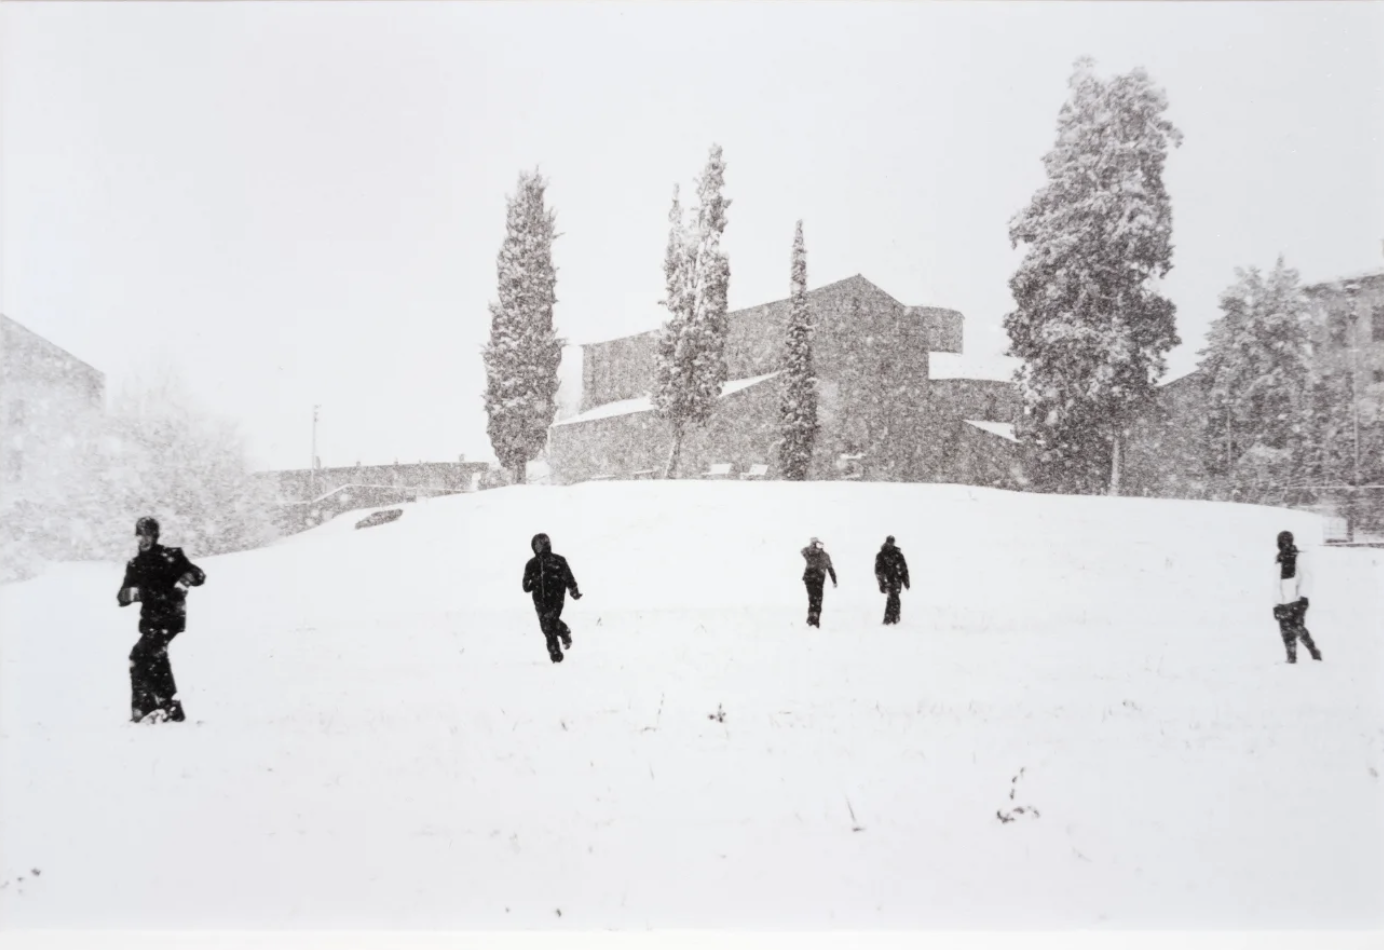
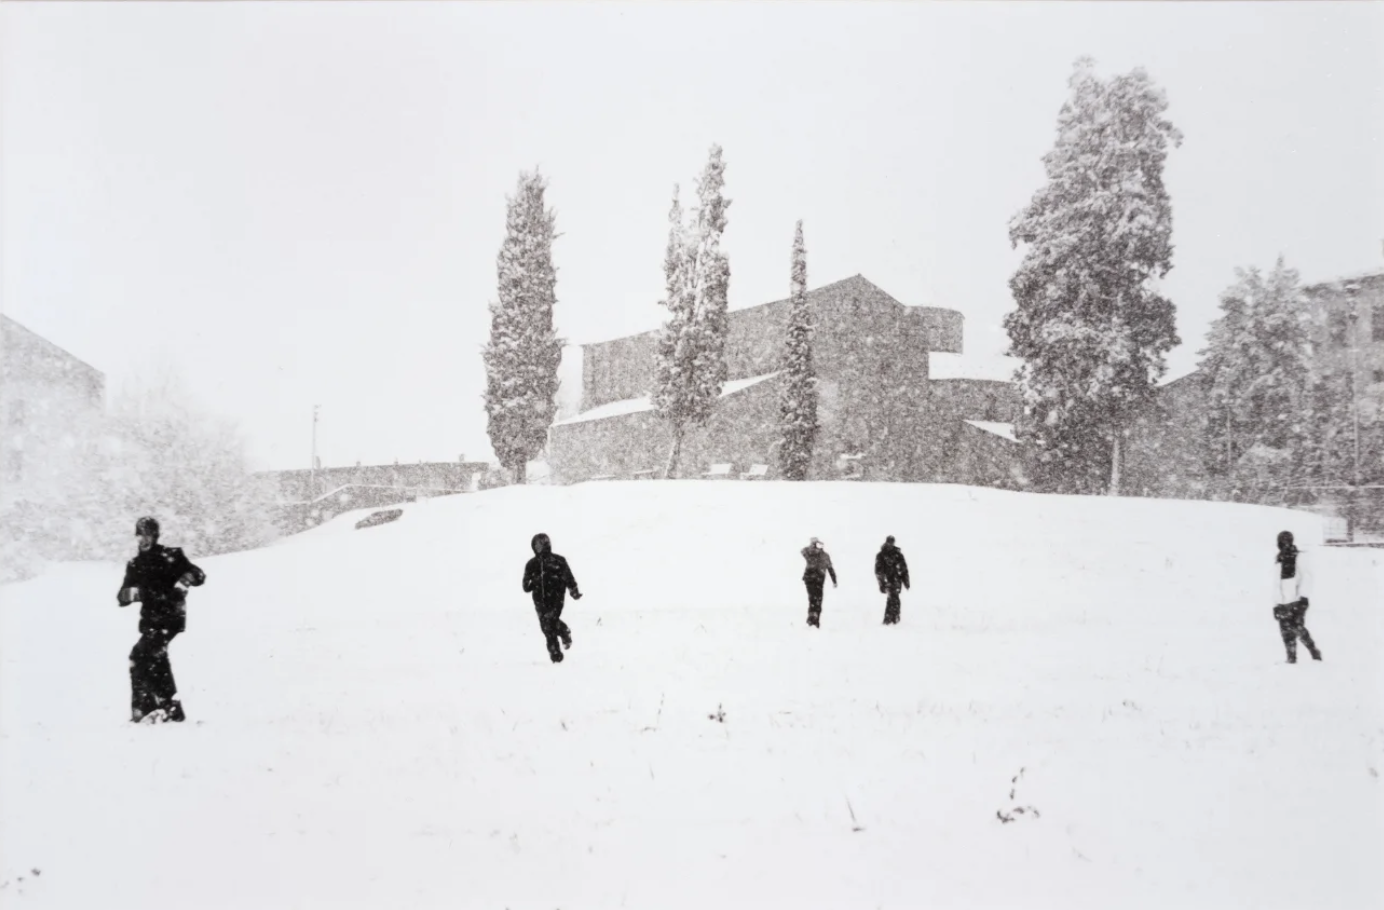
Align available-works captions to a shared row; crop image artifacts
Wrapped each work-card's caption content in a .work-caption div and
switched .works-grid to a subgrid layout (grid-template-rows: auto auto,
work-card spans both rows). Previously the caption text position
depended on each column's image height, so two differently-sized
images left titles/prices/Enquire buttons at mismatched heights —
noticeable on mitsutaka.html and andrea-rosselli.html where the two
work images aren't the same aspect ratio. Applied the same structure to
jesula.html for consistency, even though her two images are near-
identical height today. Mobile breakpoint resets .work-card back to
normal block flow since the grid collapses to one column there.

Also cropped two source images on the Andrea Rosselli page:
- Cantu, 2021.png: removed a flat white band at the bottom of the frame
  (1384x950 -> 1384x910)
- Untitled, 2026.png: removed a 1px dark left-edge line and a 2px dark
  bottom-edge band, both scan artifacts (1554x1550 -> 1553x1548)

diff --git a/mitsutaka.html b/mitsutaka.html
@@ -492,8 +492,20 @@ document.addEventListener('DOMContentLoaded', function() {
     .works-grid {
         display: grid;
         grid-template-columns: 1.5fr 1fr;
+        grid-template-rows: auto auto;
         gap: 3.5rem;
         align-items: start;
+    }
+
+    .work-card {
+        display: grid;
+        grid-template-rows: subgrid;
+        grid-row: span 2;
+    }
+
+    .work-caption {
+        display: flex;
+        flex-direction: column;
     }
 
     .work-card.is-lead figure {
@@ -637,6 +649,11 @@ document.addEventListener('DOMContentLoaded', function() {
         }
         .works-grid {
             grid-template-columns: 1fr;
+            grid-template-rows: none;
+        }
+        .work-card {
+            display: block;
+            grid-row: auto;
         }
         .work-card.is-secondary {
             margin-top: 0;
@@ -1127,22 +1144,26 @@ document.addEventListener('DOMContentLoaded', function() {
                 <figure class="lightbox-trigger" data-full="images/mitsutaka-tsuryu/Mitsutaka Unoccupied Card.jpg" data-title="Unoccupied" tabindex="0" role="button" aria-label="View Unoccupied fullscreen">
                     <img src="images/mitsutaka-tsuryu/Mitsutaka Unoccupied Card.jpg" alt="Unoccupied, by Mitsutaka Tsuryu" loading="lazy" decoding="async">
                 </figure>
-                <h3 class="work-title">Unoccupied</h3>
-                <p class="work-year">&nbsp;</p>
-                <p class="work-meta">60 &times; 100 cm<br>Hahnem&uuml;hle Fine Art Print<br>Edition of 10</p>
-                <p class="work-price">&euro;750</p>
-                <a href="mailto:hello@elsewherecollective.nl?subject=Enquiry%20-%20Unoccupied&body=Hi%2C%20I%27d%20like%20to%20enquire%20about%20%22Unoccupied%22%20by%20Mitsutaka%20Tsuryu.%0A%0APlease%20could%20you%20provide%20more%20details%20about%20availability%2C%20purchase%20and%20timings%3F%0A%0AThanks%2C" class="enquire-btn">Enquire</a>
+                <div class="work-caption">
+                    <h3 class="work-title">Unoccupied</h3>
+                    <p class="work-year">&nbsp;</p>
+                    <p class="work-meta">60 &times; 100 cm<br>Hahnem&uuml;hle Fine Art Print<br>Edition of 10</p>
+                    <p class="work-price">&euro;750</p>
+                    <a href="mailto:hello@elsewherecollective.nl?subject=Enquiry%20-%20Unoccupied&body=Hi%2C%20I%27d%20like%20to%20enquire%20about%20%22Unoccupied%22%20by%20Mitsutaka%20Tsuryu.%0A%0APlease%20could%20you%20provide%20more%20details%20about%20availability%2C%20purchase%20and%20timings%3F%0A%0AThanks%2C" class="enquire-btn">Enquire</a>
+                </div>
             </article>
 
             <article class="work-card is-secondary">
                 <figure class="lightbox-trigger" data-full="images/mitsutaka-tsuryu/Mitsutaka Tsuryu Behind the Veil Card.jpg" data-title="Behind the Veil" tabindex="0" role="button" aria-label="View Behind the Veil fullscreen">
                     <img src="images/mitsutaka-tsuryu/Mitsutaka Tsuryu Behind the Veil Card.jpg" alt="Behind the Veil, by Mitsutaka Tsuryu" loading="lazy" decoding="async">
                 </figure>
-                <h3 class="work-title">Behind the Veil</h3>
-                <p class="work-year">&nbsp;</p>
-                <p class="work-meta">60 &times; 60 cm<br>Hahnem&uuml;hle Fine Art Print<br>Edition of 10</p>
-                <p class="work-price">&euro;550</p>
-                <a href="mailto:hello@elsewherecollective.nl?subject=Enquiry%20-%20Behind%20the%20Veil&body=Hi%2C%20I%27d%20like%20to%20enquire%20about%20%22Behind%20the%20Veil%22%20by%20Mitsutaka%20Tsuryu.%0A%0APlease%20could%20you%20provide%20more%20details%20about%20availability%2C%20purchase%20and%20timings%3F%0A%0AThanks%2C" class="enquire-btn">Enquire</a>
+                <div class="work-caption">
+                    <h3 class="work-title">Behind the Veil</h3>
+                    <p class="work-year">&nbsp;</p>
+                    <p class="work-meta">60 &times; 60 cm<br>Hahnem&uuml;hle Fine Art Print<br>Edition of 10</p>
+                    <p class="work-price">&euro;550</p>
+                    <a href="mailto:hello@elsewherecollective.nl?subject=Enquiry%20-%20Behind%20the%20Veil&body=Hi%2C%20I%27d%20like%20to%20enquire%20about%20%22Behind%20the%20Veil%22%20by%20Mitsutaka%20Tsuryu.%0A%0APlease%20could%20you%20provide%20more%20details%20about%20availability%2C%20purchase%20and%20timings%3F%0A%0AThanks%2C" class="enquire-btn">Enquire</a>
+                </div>
             </article>
         </div>
     </section>

diff --git a/jesula.html b/jesula.html
@@ -521,8 +521,20 @@ document.addEventListener('DOMContentLoaded', function() {
     .works-grid {
         display: grid;
         grid-template-columns: 1fr 1fr;
+        grid-template-rows: auto auto;
         gap: 6rem;
         align-items: start;
+    }
+
+    .work-card {
+        display: grid;
+        grid-template-rows: subgrid;
+        grid-row: span 2;
+    }
+
+    .work-caption {
+        display: flex;
+        flex-direction: column;
     }
 
     .work-card.is-lead figure,
@@ -648,6 +660,11 @@ document.addEventListener('DOMContentLoaded', function() {
         }
         .works-grid {
             grid-template-columns: 1fr;
+            grid-template-rows: none;
+        }
+        .work-card {
+            display: block;
+            grid-row: auto;
         }
         .work-card.is-secondary {
             margin-top: 0;
@@ -1133,22 +1150,26 @@ document.addEventListener('DOMContentLoaded', function() {
                 <figure class="lightbox-trigger" data-full="images/jesula/Jesula Lucent Shadows.jpg" data-title="Lucent Shadows" tabindex="0" role="button" aria-label="View Lucent Shadows fullscreen">
                     <img src="images/jesula/Jesula Lucent Shadows.jpg" alt="Lucent Shadows, by Jésula Toussaint Visser" loading="lazy" decoding="async">
                 </figure>
-                <h3 class="work-title">Lucent Shadows</h3>
-                <p class="work-year">&nbsp;</p>
-                <p class="work-meta">73 &times; 110 cm<br>Fabriano Artistico Watercolour 310 gsm<br>Edition of 5</p>
-                <p class="work-price">&euro;2,000</p>
-                <a href="mailto:hello@elsewherecollective.nl?subject=Enquiry%20-%20Lucent%20Shadows&body=Hi%2C%20I%27d%20like%20to%20enquire%20about%20%22Lucent%20Shadows%22%20by%20J%C3%A9sula%20Toussaint%20Visser.%0A%0APlease%20could%20you%20provide%20more%20details%20about%20availability%2C%20purchase%20and%20timings%3F%0A%0AThanks%2C" class="enquire-btn">Enquire</a>
+                <div class="work-caption">
+                    <h3 class="work-title">Lucent Shadows</h3>
+                    <p class="work-year">&nbsp;</p>
+                    <p class="work-meta">73 &times; 110 cm<br>Fabriano Artistico Watercolour 310 gsm<br>Edition of 5</p>
+                    <p class="work-price">&euro;2,000</p>
+                    <a href="mailto:hello@elsewherecollective.nl?subject=Enquiry%20-%20Lucent%20Shadows&body=Hi%2C%20I%27d%20like%20to%20enquire%20about%20%22Lucent%20Shadows%22%20by%20J%C3%A9sula%20Toussaint%20Visser.%0A%0APlease%20could%20you%20provide%20more%20details%20about%20availability%2C%20purchase%20and%20timings%3F%0A%0AThanks%2C" class="enquire-btn">Enquire</a>
+                </div>
             </article>
 
             <article class="work-card is-secondary">
                 <figure class="lightbox-trigger" data-full="images/jesula/Jesula Drafted.jpg" data-title="Drafted" tabindex="0" role="button" aria-label="View Drafted fullscreen">
                     <img src="images/jesula/Jesula Drafted.jpg" alt="Drafted, by Jésula Toussaint Visser" loading="lazy" decoding="async">
                 </figure>
-                <h3 class="work-title">Drafted</h3>
-                <p class="work-year">&nbsp;</p>
-                <p class="work-meta">73 &times; 110 cm<br>Fabriano Artistico Watercolour 310 gsm<br>Edition of 5</p>
-                <p class="work-price">&euro;1,850</p>
-                <a href="mailto:hello@elsewherecollective.nl?subject=Enquiry%20-%20Drafted&body=Hi%2C%20I%27d%20like%20to%20enquire%20about%20%22Drafted%22%20by%20J%C3%A9sula%20Toussaint%20Visser.%0A%0APlease%20could%20you%20provide%20more%20details%20about%20availability%2C%20purchase%20and%20timings%3F%0A%0AThanks%2C" class="enquire-btn">Enquire</a>
+                <div class="work-caption">
+                    <h3 class="work-title">Drafted</h3>
+                    <p class="work-year">&nbsp;</p>
+                    <p class="work-meta">73 &times; 110 cm<br>Fabriano Artistico Watercolour 310 gsm<br>Edition of 5</p>
+                    <p class="work-price">&euro;1,850</p>
+                    <a href="mailto:hello@elsewherecollective.nl?subject=Enquiry%20-%20Drafted&body=Hi%2C%20I%27d%20like%20to%20enquire%20about%20%22Drafted%22%20by%20J%C3%A9sula%20Toussaint%20Visser.%0A%0APlease%20could%20you%20provide%20more%20details%20about%20availability%2C%20purchase%20and%20timings%3F%0A%0AThanks%2C" class="enquire-btn">Enquire</a>
+                </div>
             </article>
         </div>
     </section>

diff --git a/andrea-rosselli.html b/andrea-rosselli.html
@@ -494,8 +494,20 @@ document.addEventListener('DOMContentLoaded', function() {
     .works-grid {
         display: grid;
         grid-template-columns: 1.5fr 1fr;
+        grid-template-rows: auto auto;
         gap: 3.5rem;
         align-items: start;
+    }
+
+    .work-card {
+        display: grid;
+        grid-template-rows: subgrid;
+        grid-row: span 2;
+    }
+
+    .work-caption {
+        display: flex;
+        flex-direction: column;
     }
 
     .work-card figure {
@@ -629,6 +641,11 @@ document.addEventListener('DOMContentLoaded', function() {
         }
         .works-grid {
             grid-template-columns: 1fr;
+            grid-template-rows: none;
+        }
+        .work-card {
+            display: block;
+            grid-row: auto;
         }
         .work-card.is-secondary {
             margin-top: 0;
@@ -1119,22 +1136,26 @@ document.addEventListener('DOMContentLoaded', function() {
                 <figure class="lightbox-trigger" data-full="images/andrea rosselli/Untitled.png" data-title="Lorem Ipsum" tabindex="0" role="button" aria-label="View Lorem Ipsum fullscreen">
                     <img src="images/andrea rosselli/Untitled.png" alt="Lorem Ipsum, by Andrea Rosselli" loading="lazy" decoding="async">
                 </figure>
-                <h3 class="work-title">Lorem Ipsum</h3>
-                <p class="work-year">&nbsp;</p>
-                <p class="work-meta">Silver gelatin print<br>20 &times; 30 cm<br>Edition of 5</p>
-                <p class="work-price">&euro;450</p>
-                <a href="mailto:hello@elsewherecollective.nl?subject=Enquiry%20-%20Lorem%20Ipsum&body=Hi%2C%20I%27d%20like%20to%20enquire%20about%20%22Lorem%20Ipsum%22%20by%20Andrea%20Rosselli.%0A%0APlease%20could%20you%20provide%20more%20details%20about%20availability%2C%20purchase%20and%20timings%3F%0A%0AThanks%2C" class="enquire-btn">Enquire</a>
+                <div class="work-caption">
+                    <h3 class="work-title">Lorem Ipsum</h3>
+                    <p class="work-year">&nbsp;</p>
+                    <p class="work-meta">Silver gelatin print<br>20 &times; 30 cm<br>Edition of 5</p>
+                    <p class="work-price">&euro;450</p>
+                    <a href="mailto:hello@elsewherecollective.nl?subject=Enquiry%20-%20Lorem%20Ipsum&body=Hi%2C%20I%27d%20like%20to%20enquire%20about%20%22Lorem%20Ipsum%22%20by%20Andrea%20Rosselli.%0A%0APlease%20could%20you%20provide%20more%20details%20about%20availability%2C%20purchase%20and%20timings%3F%0A%0AThanks%2C" class="enquire-btn">Enquire</a>
+                </div>
             </article>
 
             <article class="work-card is-secondary">
                 <figure class="lightbox-trigger" data-full="images/andrea rosselli/Untitled, 2026.png" data-title="Dolor Sit" tabindex="0" role="button" aria-label="View Dolor Sit fullscreen">
                     <img src="images/andrea rosselli/Untitled, 2026.png" alt="Dolor Sit, by Andrea Rosselli" loading="lazy" decoding="async">
                 </figure>
-                <h3 class="work-title">Dolor Sit</h3>
-                <p class="work-year">&nbsp;</p>
-                <p class="work-meta">Silver gelatin print, FB paper, selenium toned<br>12 &times; 12 cm<br>Edition of 10</p>
-                <p class="work-price">&euro;530</p>
-                <a href="mailto:hello@elsewherecollective.nl?subject=Enquiry%20-%20Dolor%20Sit&body=Hi%2C%20I%27d%20like%20to%20enquire%20about%20%22Dolor%20Sit%22%20by%20Andrea%20Rosselli.%0A%0APlease%20could%20you%20provide%20more%20details%20about%20availability%2C%20purchase%20and%20timings%3F%0A%0AThanks%2C" class="enquire-btn">Enquire</a>
+                <div class="work-caption">
+                    <h3 class="work-title">Dolor Sit</h3>
+                    <p class="work-year">&nbsp;</p>
+                    <p class="work-meta">Silver gelatin print, FB paper, selenium toned<br>12 &times; 12 cm<br>Edition of 10</p>
+                    <p class="work-price">&euro;530</p>
+                    <a href="mailto:hello@elsewherecollective.nl?subject=Enquiry%20-%20Dolor%20Sit&body=Hi%2C%20I%27d%20like%20to%20enquire%20about%20%22Dolor%20Sit%22%20by%20Andrea%20Rosselli.%0A%0APlease%20could%20you%20provide%20more%20details%20about%20availability%2C%20purchase%20and%20timings%3F%0A%0AThanks%2C" class="enquire-btn">Enquire</a>
+                </div>
             </article>
         </div>
     </section>
